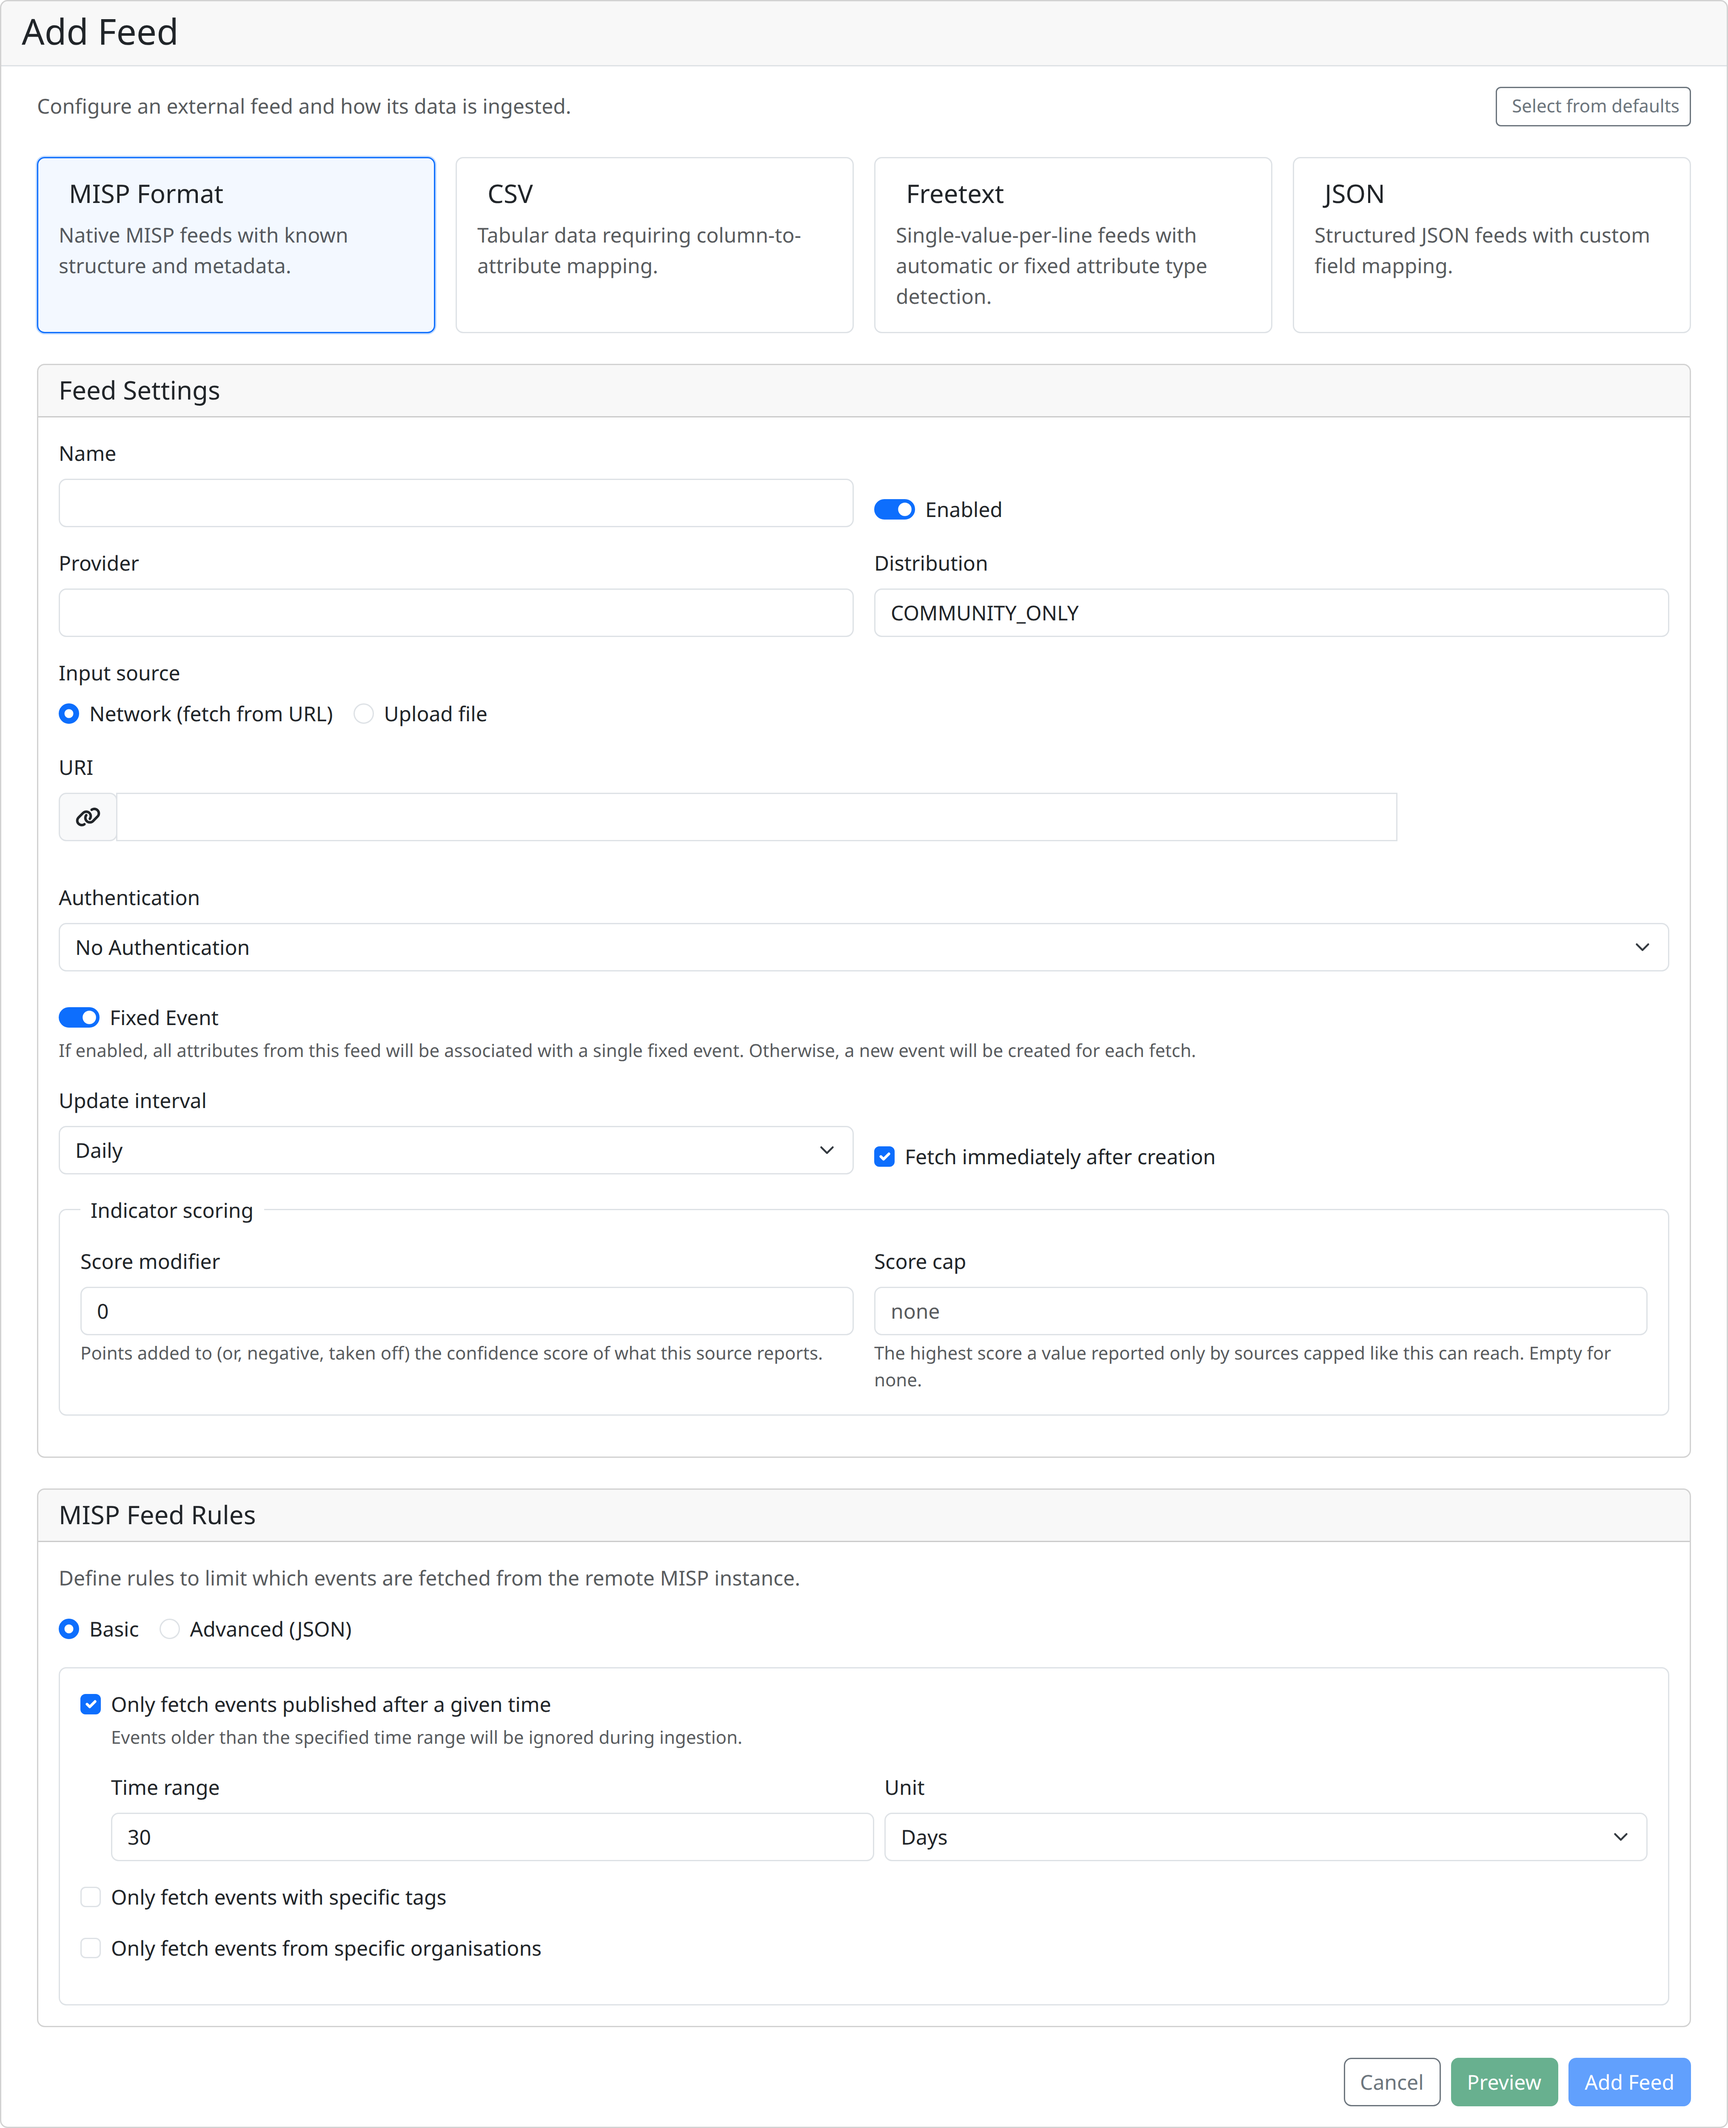
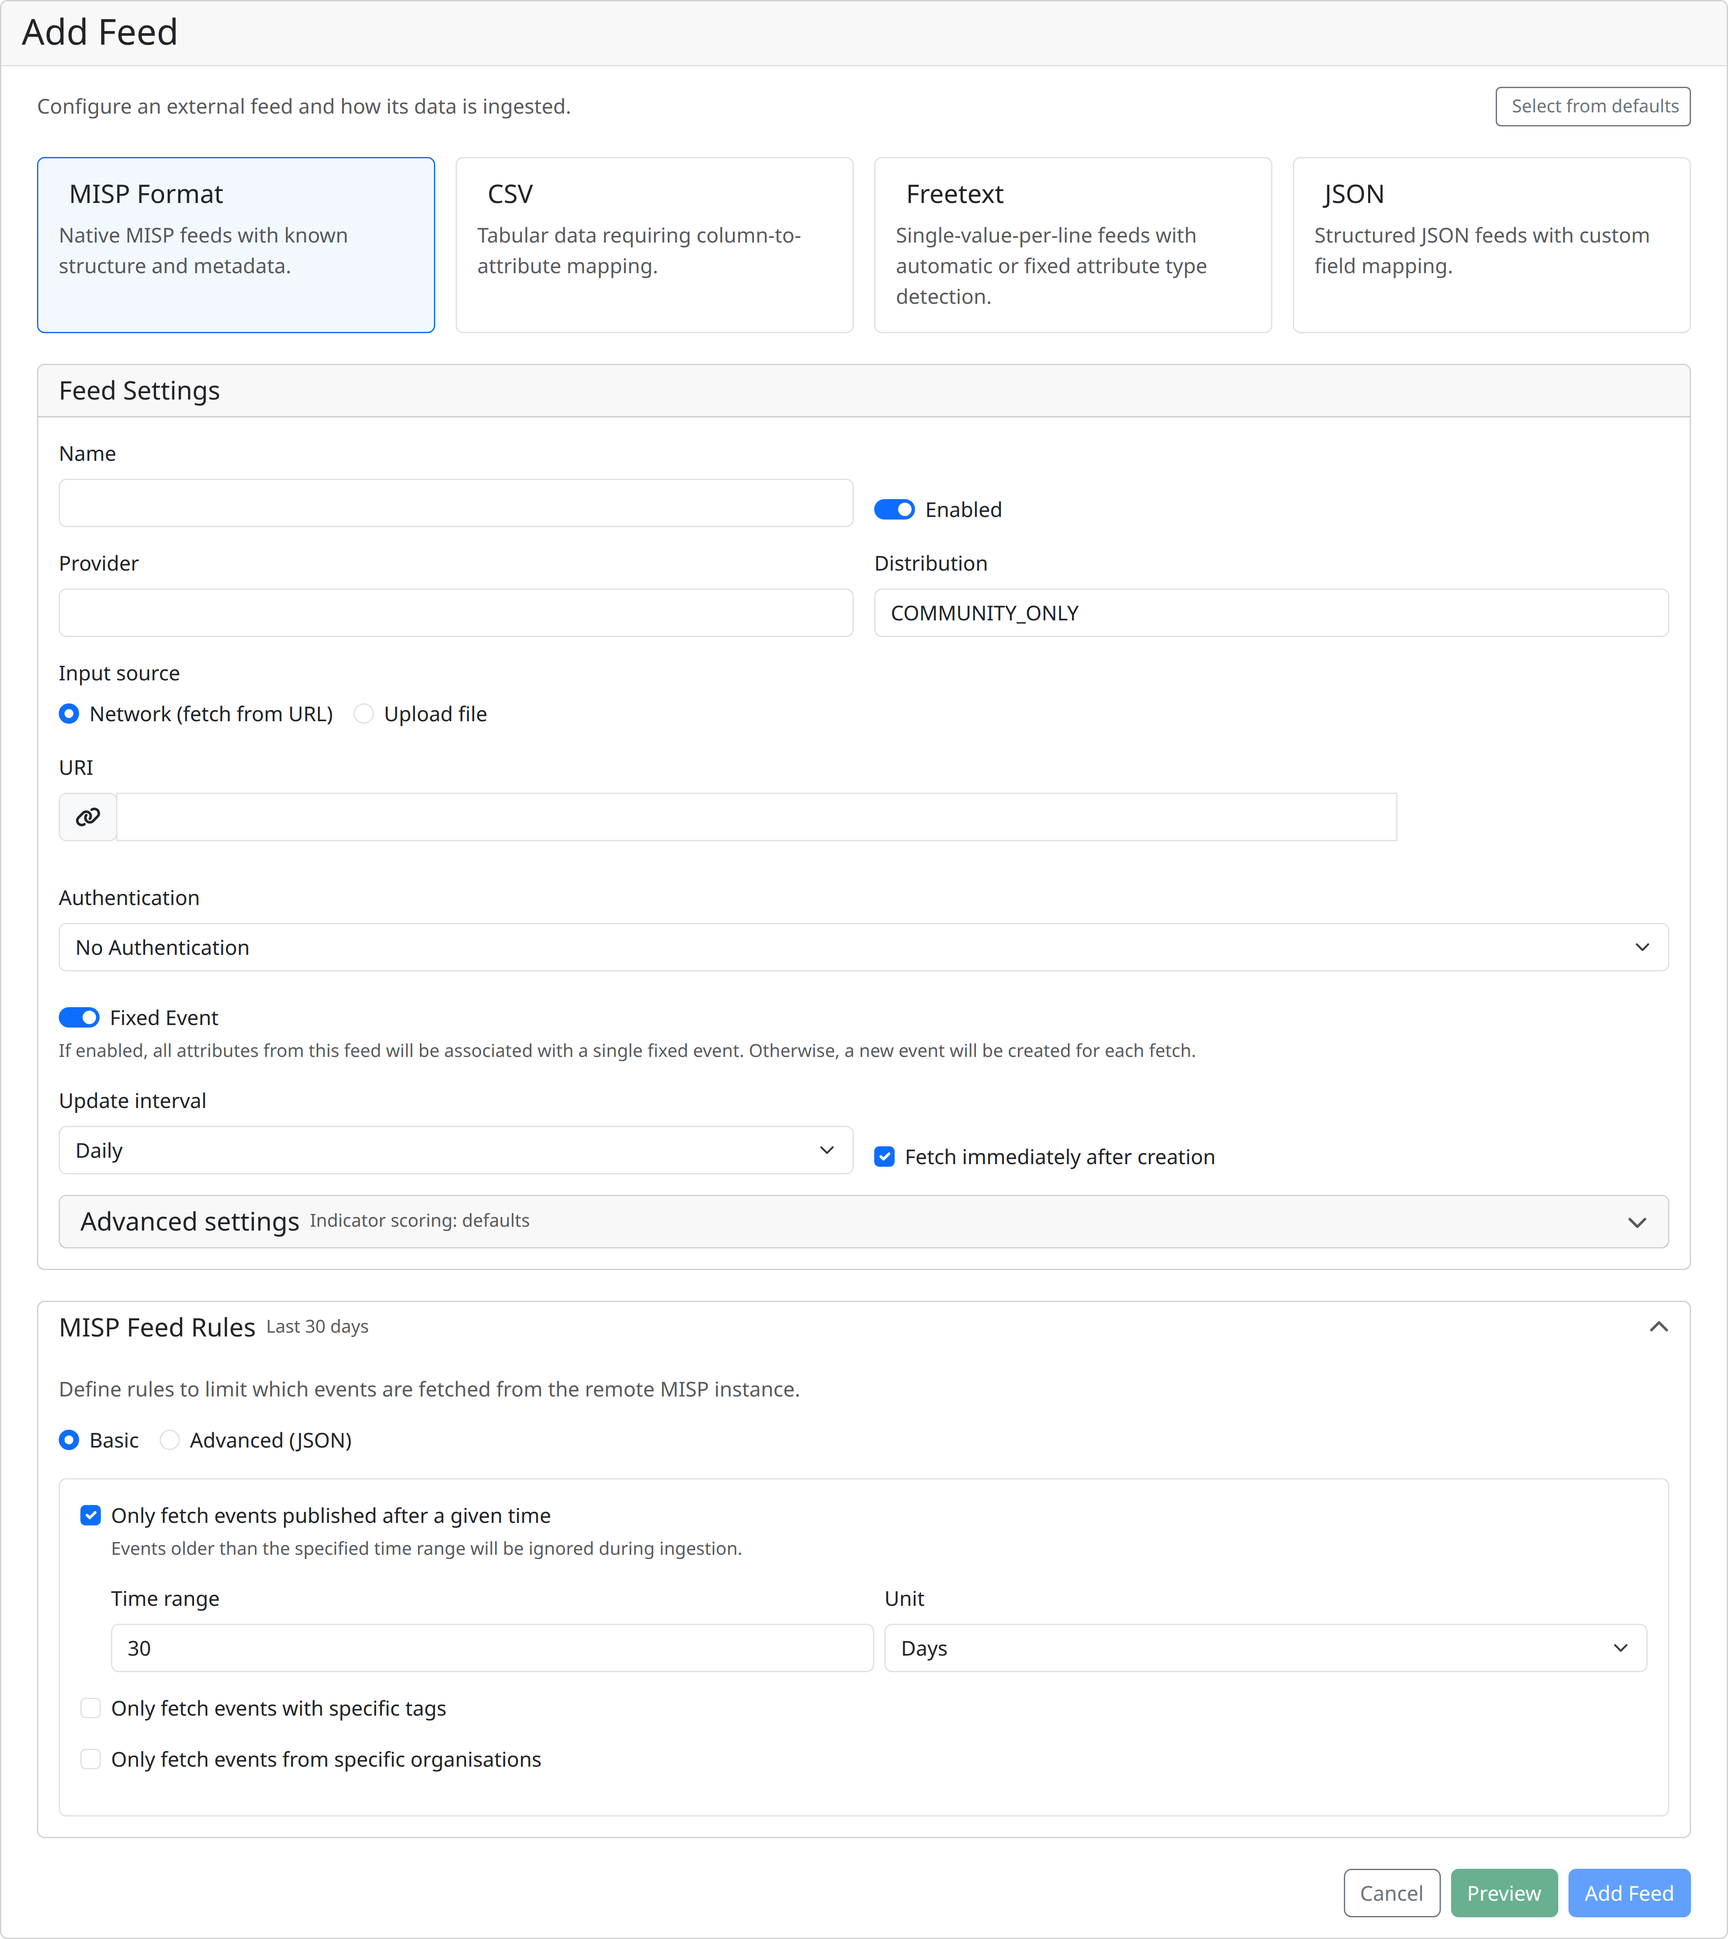
Collapse feed rules and indicator scoring in the feed forms
The add and edit feed forms open with only what a new feed needs. MISP
feed rules and indicator scoring (now under "Advanced settings") are
collapsed, each header summarising what applies: "Last 30 days", "None:
every event is fetched", "score modifier -10", ... so nothing is hidden
by being collapsed.

diff --git a/frontend/src/components/feeds/misp/AddFeedMISP.vue b/frontend/src/components/feeds/misp/AddFeedMISP.vue
@@ -1,5 +1,6 @@
 <script setup>
-import { ref, reactive, watch, nextTick } from "vue";
+import { ref, reactive, computed, watch, nextTick } from "vue";
+import CollapsibleSection from "@/components/misc/CollapsibleSection.vue";
 import TagsSelect from "@/components/tags/TagsSelect.vue";
 import OrganisationsMultiSelect from "@/components/organisations/OrganisationsMultiSelect.vue";
 
@@ -112,6 +113,30 @@ watch([mode, basic, advancedJson], buildAndEmitRules, {
   immediate: true,
 });
 
+const UNIT_LABELS = { d: "days", w: "weeks", m: "months" };
+
+// What the rules let through, shown while the section is collapsed.
+const rulesSummary = computed(() => {
+  if (mode.value === "advanced") {
+    return advancedJson.value.trim()
+      ? "Custom rules (JSON)"
+      : "None: every event is fetched";
+  }
+  const parts = [];
+  if (basic.timestamp.enabled) {
+    parts.push(
+      `Last ${basic.timestamp.value} ${UNIT_LABELS[basic.timestamp.unit]}`,
+    );
+  }
+  if (basic.tags.enabled && basic.tags.tags.length) {
+    parts.push(`tags: ${basic.tags.tags.join(", ")}`);
+  }
+  if (basic.orgs.enabled && basic.orgs.orgs.length) {
+    parts.push(`organisations: ${basic.orgs.orgs.join(", ")}`);
+  }
+  return parts.length ? parts.join(" · ") : "None: every event is fetched";
+});
+
 /**
  * Re-emit rules when the parent replaces config (e.g. default feed selected).
  * We detect this by watching the URL — it changes on default feed selection
@@ -124,12 +149,8 @@ watch(
 </script>
 
 <template>
-  <div class="card">
-    <div class="card-header">
-      <h5 class="mb-0">MISP Feed Rules</h5>
-    </div>
-
-    <div class="card-body">
+  <CollapsibleSection title="MISP Feed Rules" :summary="rulesSummary">
+    <div>
       <p class="text-muted">
         Define rules to limit which events are fetched from the remote MISP
         instance.
@@ -287,5 +308,5 @@ watch(
         </div>
       </div>
     </div>
-  </div>
+  </CollapsibleSection>
 </template>

diff --git a/frontend/src/components/feeds/FeedBaseForm.vue b/frontend/src/components/feeds/FeedBaseForm.vue
@@ -7,6 +7,7 @@ import { faLink } from "@fortawesome/free-solid-svg-icons";
 import { FeedSchema } from "@/schemas/feed";
 import { Form, Field } from "vee-validate";
 import SourceTrustFields from "@/components/indicators/SourceTrustFields.vue";
+import CollapsibleSection from "@/components/misc/CollapsibleSection.vue";
 
 const props = defineProps({
   modelValue: {
@@ -38,6 +39,20 @@ const local = reactive({
 });
 
 const isLocal = computed(() => local.input_source === "local");
+
+// Shown while the advanced settings are collapsed: only what differs from
+// the defaults.
+const advancedSummary = computed(() => {
+  const parts = [];
+  if (local.score_modifier) {
+    const sign = local.score_modifier > 0 ? "+" : "";
+    parts.push(`score modifier ${sign}${local.score_modifier}`);
+  }
+  if (local.score_cap !== null && local.score_cap !== undefined) {
+    parts.push(`score cap ${local.score_cap}`);
+  }
+  return parts.length ? parts.join(" · ") : "Indicator scoring: defaults";
+});
 
 const localFile = computed(() => (local.settings || {}).localFile || {});
 
@@ -330,12 +345,18 @@ function handleDistributionLevelUpdated(distributionLevelId) {
           file on the Update Feed page to re-ingest later.
         </div>
       </div>
-      <SourceTrustFields
+      <CollapsibleSection
         class="mt-3"
-        id-prefix="feed"
-        v-model:modifier="local.score_modifier"
-        v-model:cap="local.score_cap"
-      />
+        title="Advanced settings"
+        :summary="advancedSummary"
+      >
+        <SourceTrustFields
+          class="mb-0"
+          id-prefix="feed"
+          v-model:modifier="local.score_modifier"
+          v-model:cap="local.score_cap"
+        />
+      </CollapsibleSection>
     </Form>
   </div>
 </template>

diff --git a/frontend/src/components/misc/CollapsibleSection.vue b/frontend/src/components/misc/CollapsibleSection.vue
@@ -1,0 +1,38 @@
+<script setup>
+import { ref } from "vue";
+import { FontAwesomeIcon } from "@fortawesome/vue-fontawesome";
+import { faChevronDown, faChevronUp } from "@fortawesome/free-solid-svg-icons";
+
+// A card whose body opens on demand; the header keeps a one-line summary of
+// what is inside (the rules applied, non-default settings) while it is closed.
+const props = defineProps({
+  title: { type: String, required: true },
+  summary: { type: String, default: "" },
+  open: { type: Boolean, default: false },
+});
+
+const isOpen = ref(props.open);
+</script>
+
+<template>
+  <div class="card">
+    <button
+      type="button"
+      class="card-header btn text-start d-flex align-items-center gap-2 border-0 rounded-top"
+      :aria-expanded="isOpen"
+      @click="isOpen = !isOpen"
+    >
+      <h5 class="mb-0">{{ title }}</h5>
+      <span v-if="summary" class="small text-muted text-truncate">
+        {{ summary }}
+      </span>
+      <FontAwesomeIcon
+        :icon="isOpen ? faChevronUp : faChevronDown"
+        class="ms-auto text-muted"
+      />
+    </button>
+    <div v-show="isOpen" class="card-body">
+      <slot />
+    </div>
+  </div>
+</template>

diff --git a/frontend/scripts/docs-screenshots/feeds.spec.ts b/frontend/scripts/docs-screenshots/feeds.spec.ts
@@ -173,7 +173,9 @@ test.describe("Feeds screenshots", () => {
   test("misp 2 — MISP feed rules card", async ({ page }) => {
     await openAddFeed(page, "MISP Format");
     const rules = page.locator(".card", { hasText: "MISP Feed Rules" }).first();
-    await expect(rules).toBeVisible();
+    // Collapsed by default, with a summary of the rules: open it to show them.
+    await rules.getByRole("button", { name: /MISP Feed Rules/ }).click();
+    await expect(rules.getByText("Basic", { exact: true })).toBeVisible();
     await capture(rules, FEATURE, "misp-workbench-3_misp-feed-rules");
   });
 
